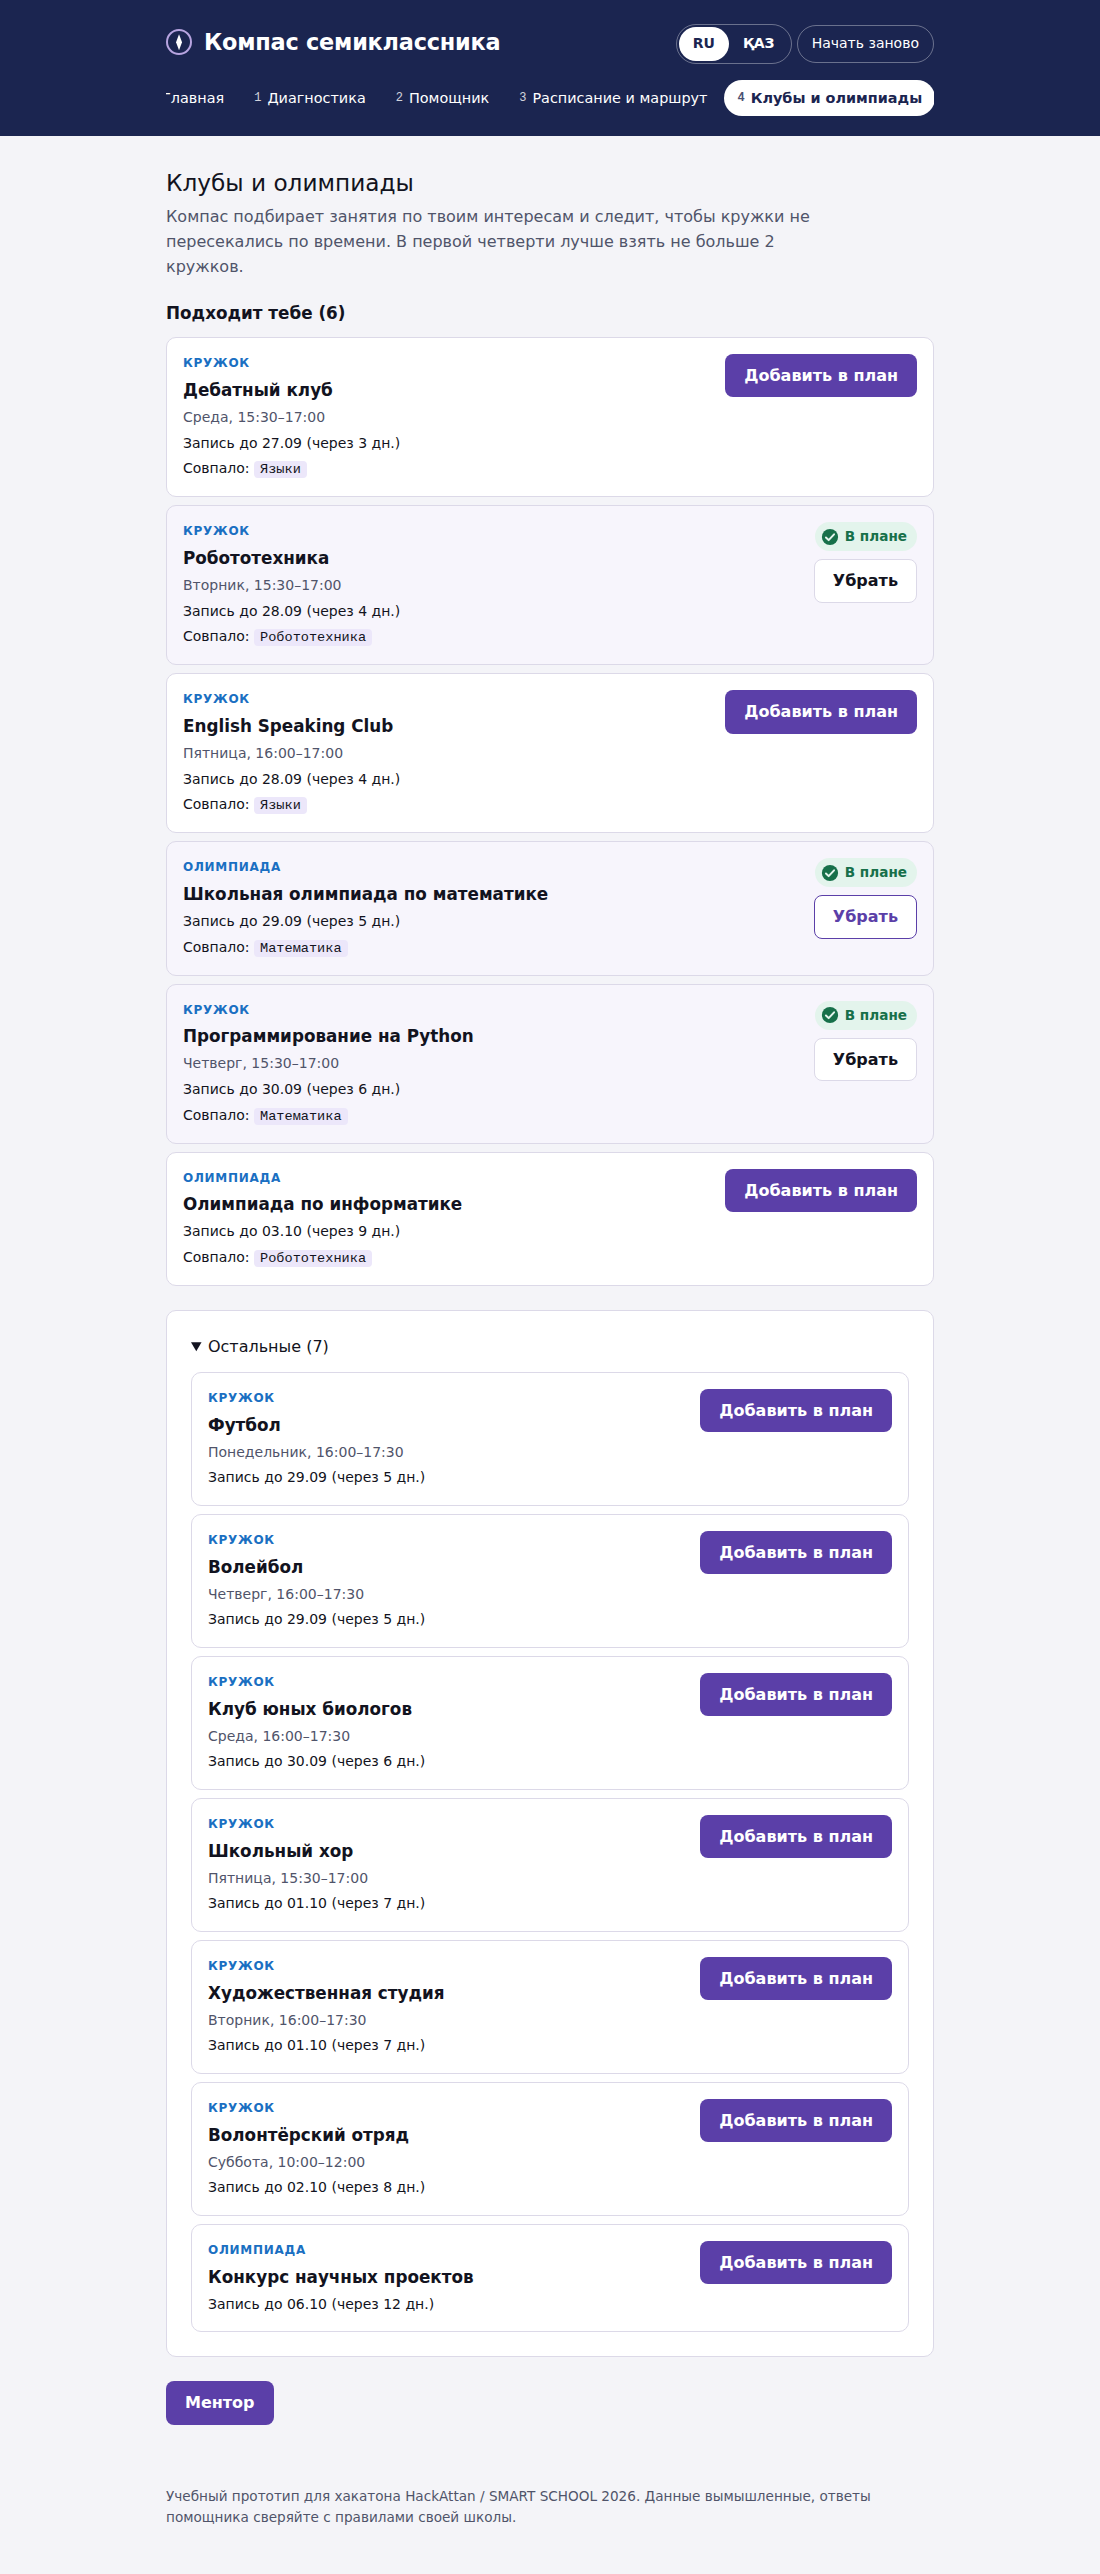
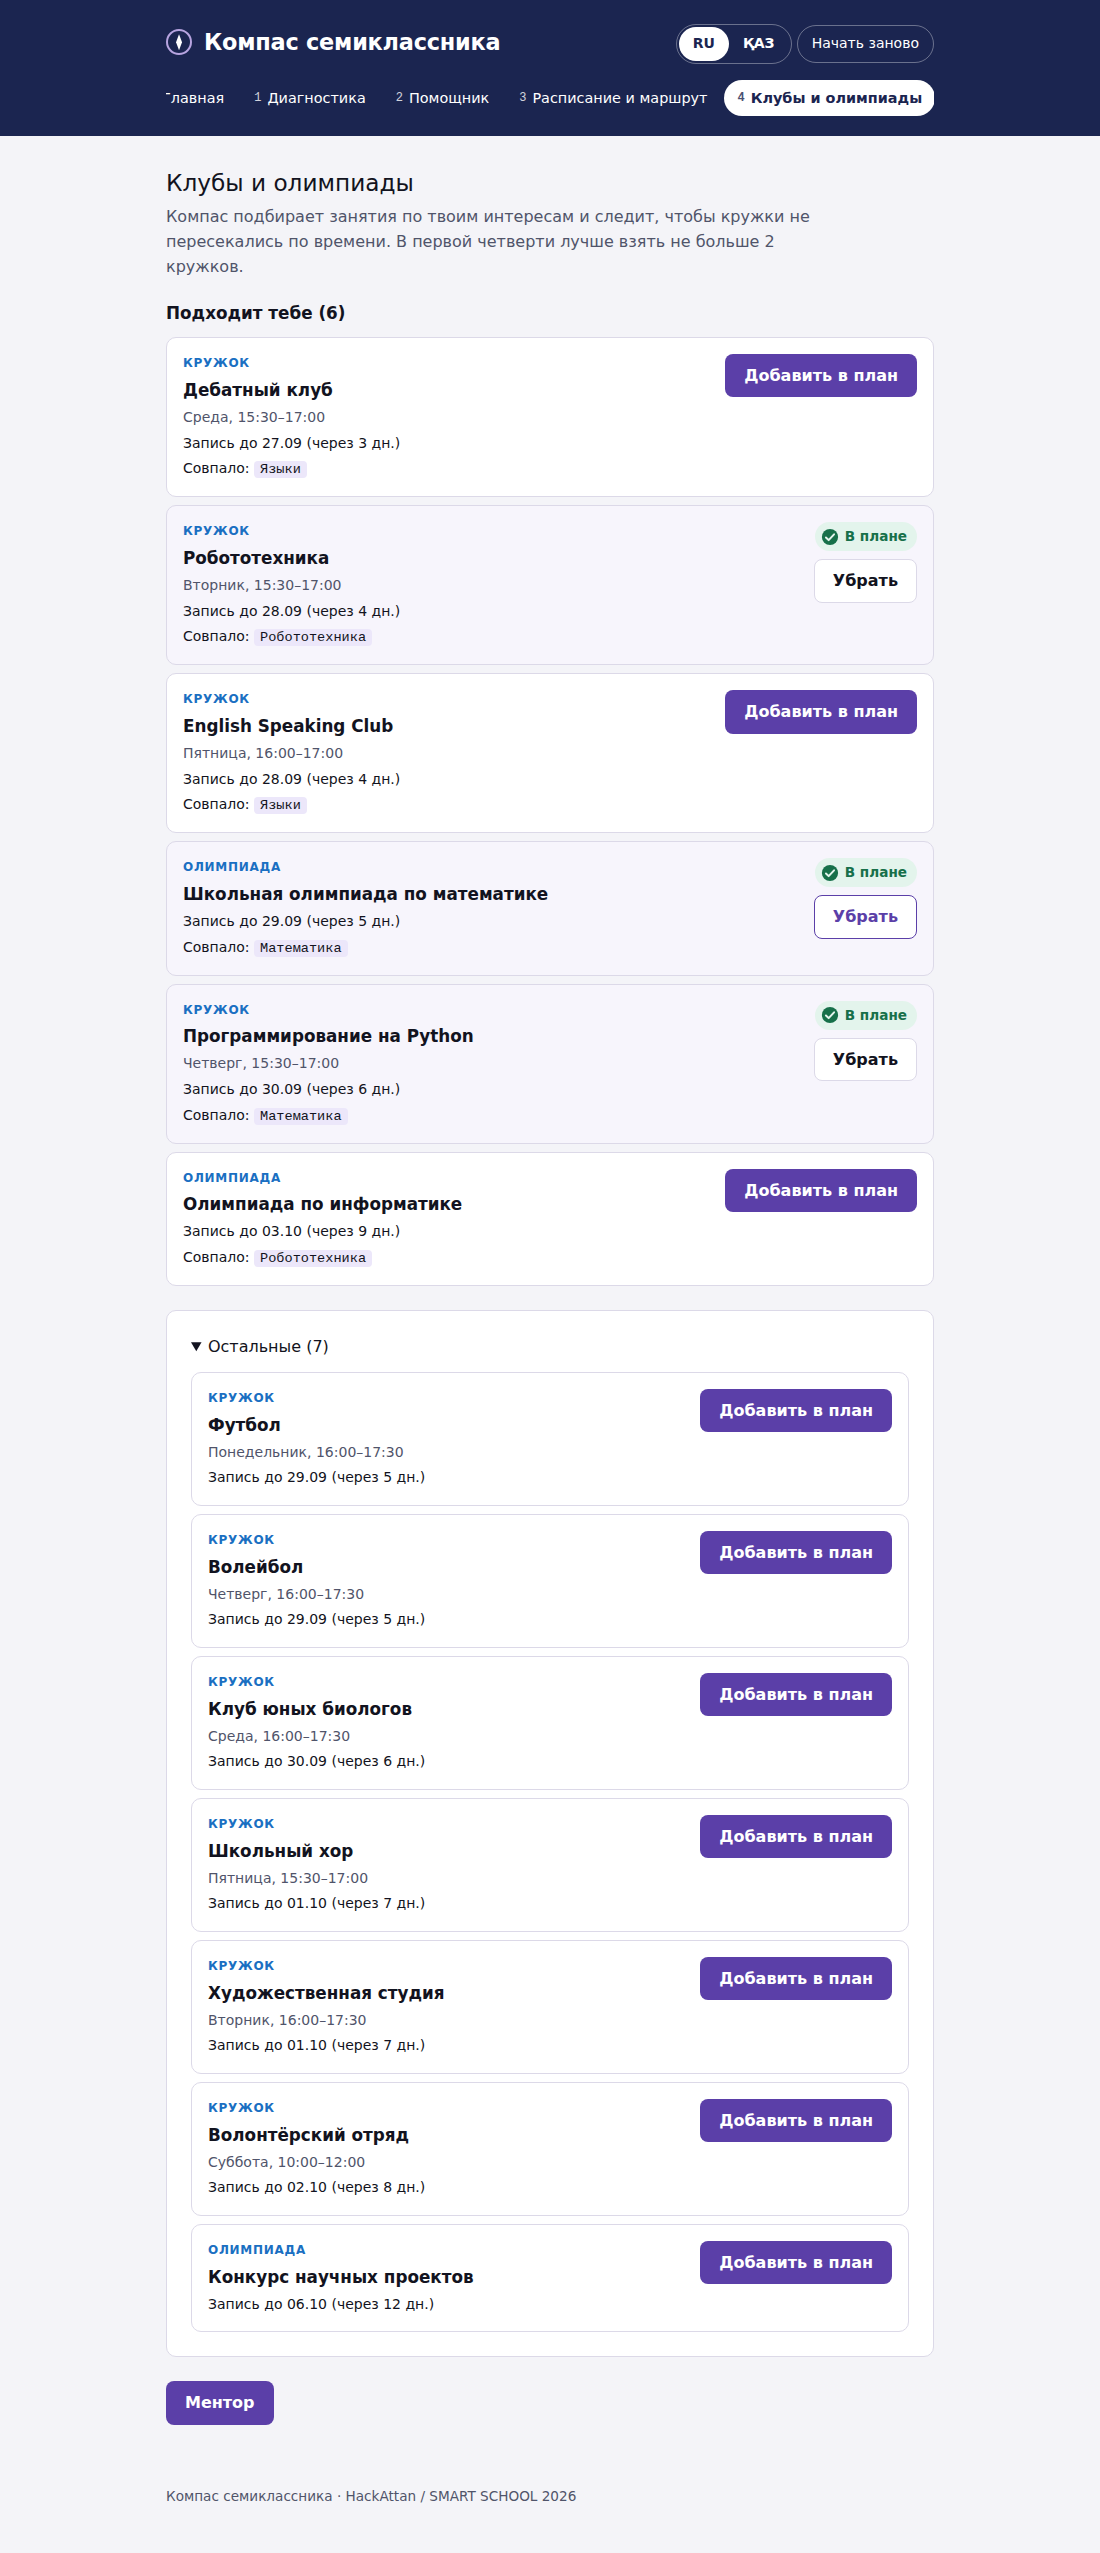
Remove demo-data disclaimers from the interface
Claude-Session: https://claude.ai/code/session_019CwR6hvYNn6jJ4x8P3ywka

diff --git a/compass/data-school.js b/compass/data-school.js
@@ -165,12 +165,11 @@ const UI_SCHOOL = {
       'Получишь план на неделю с учётом уроков, отдыха и сна'
     ],
     start: 'Бастайық / Начнём',
-    demoNote: 'Все данные в прототипе учебные. Не вводи настоящие пароли и личные данные.',
 
     regTitle: 'Давай познакомимся',
     regIntro: 'Эти данные нужны, чтобы подобрать клубы, ментора и составить план. Они хранятся только в этом браузере.',
     fName: 'Имя',
-    fNameHint: 'Можно вымышленное, только буквы',
+    fNameHint: 'Только буквы',
     fClass: 'Класс',
     fClassPick: 'Выбери класс',
     fInterests: 'Интересы',
@@ -303,12 +302,11 @@ const UI_SCHOOL = {
       'Сабақты, демалысты және ұйқыны ескеретін апталық жоспар аласың'
     ],
     start: 'Бастайық / Начнём',
-    demoNote: 'Прототиптегі барлық деректер оқу үшін. Нақты құпиясөз бен жеке деректерді енгізбе.',
 
     regTitle: 'Танысайық',
     regIntro: 'Бұл деректер үйірме мен менторды таңдауға және жоспар құруға керек. Олар тек осы браузерде сақталады.',
     fName: 'Аты',
-    fNameHint: 'Ойдан алынған болса да болады, тек әріптер',
+    fNameHint: 'Тек әріптер',
     fClass: 'Сынып',
     fClassPick: 'Сыныпты таңда',
     fInterests: 'Қызығушылықтар',

diff --git a/compass/data.js b/compass/data.js
@@ -522,7 +522,7 @@ const UI = {
     saved: 'Файл сохранён',
     planFileTitle: 'ПЕРСОНАЛЬНЫЙ ПЛАН НА ПЕРВУЮ НЕДЕЛЮ',
     planFileDate: 'Составлен',
-    footer: 'Учебный прототип для хакатона HackAttan / SMART SCHOOL 2026. Данные вымышленные, ответы помощника сверяйте с правилами своей школы.'
+    footer: 'Компас семиклассника · HackAttan / SMART SCHOOL 2026'
   },
   kz: {
     appName: '7-сынып компасы',
@@ -609,7 +609,7 @@ const UI = {
     saved: 'Файл сақталды',
     planFileTitle: 'БІРІНШІ АПТАҒА ЖЕКЕ ЖОСПАР',
     planFileDate: 'Құрылған күні',
-    footer: 'HackAttan / SMART SCHOOL 2026 хакатонына арналған оқу прототипі. Деректер ойдан алынған, көмекші жауаптарын өз мектебіңнің ережелерімен салыстыр.'
+    footer: '7-сынып компасы · HackAttan / SMART SCHOOL 2026'
   }
 };
 

diff --git a/compass/app.js b/compass/app.js
@@ -145,8 +145,7 @@ function renderWelcome() {
       h('h3', {}, t('welcomeWhat')),
       h('ol', { class: 'welcome-steps' }, t('welcomeSteps').map((s) => h('li', {}, s)))),
     h('div', { class: 'btn-row' },
-      h('button', { type: 'button', class: 'btn btn-primary btn-lg', id: 'start-btn', onclick: () => go(state.profile ? 'home' : 'register') }, t('start'))),
-    h('p', { class: 'muted small' }, t('demoNote'))
+      h('button', { type: 'button', class: 'btn btn-primary btn-lg', id: 'start-btn', onclick: () => go(state.profile ? 'home' : 'register') }, t('start')))
   );
 }
 
